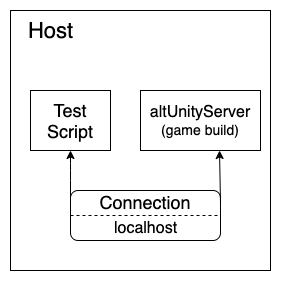
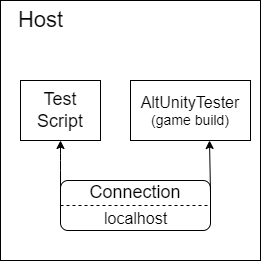
Resolve "[Overview, Advanced Usage] Update TCP socket mentions in docs"

Changed region(s): [[0.0, 0.0, 1.0, 1.0]]

diff --git a/docs/pages/advanced-usage.md b/docs/pages/advanced-usage.md
@@ -88,7 +88,7 @@ In order to run tests from the command line you can use the following example co
 
 ## Run tests on a Continuous Integration Server
 
-1. Instrument your game build with altUnity Tester from Unity or by [building from the command line](#build-games-from-the-command-line).
+1. Instrument your game build with AltUnity Tester from Unity or by [building from the command line](#build-games-from-the-command-line).
 2. Start the game build on a device.
 3. Run your tests - see commands in the ["Run tests from the command line" section](#run-tests-from-the-command-line).
 
@@ -142,7 +142,7 @@ For installing iProxy `brew install libimobiledevice`. _Requires iproxy 2.0.2_
 
                 - Forward the port using the following command:
 
-                    ``iproxy LOCAL_TCP_PORT DEVICE_TCP_PORT -u [UDID]``
+                    ``iproxy LOCAL_PORT DEVICE_PORT -u [UDID]``
 
                 - Forward using AltUnity Tester Editor
 
@@ -284,11 +284,11 @@ The following command can be used to connect to the running instrumented Unity A
 
     .. code-tab:: java
 
-            altUnityDriver = new AltUnityDriver ("deviceIp", 13000, ";", "&", true);
+            altUnityDriver = new AltUnityDriver ("deviceIp", 13000, true);
 
     .. code-tab:: py
 
-            cls.altUnityDriver = AltUnityDriver(TCP_IP='deviceIp', TCP_PORT=13000)
+            cls.altUnityDriver = AltUnityDriver(host='deviceIp', port=13000)
 ```
 
 ### Connect to multiple devices running the game
@@ -324,13 +324,13 @@ Then in your tests you will need to create two AltUnityDriver instances, one for
     This applies even when using split screen mode.
 ```
 
-You can change the port for your game build from the AltUnityTesterEditor window inside your Unity project.
+You can change the port for your game build from the AltUnity Tester Editor window inside your Unity project.
 
 ![altUnity Server Settings](../_static/images/portForwarding/altUnityServerSettings.png)
 
 ```eval_rst
 .. note::
-    After you have done the Server Port forwarding or connected to the AltUnity driver directly, you can use it in your tests to send commands to the server and receive information from the game.
+    After you have done the AltUnity Tester Port forwarding or connected to the AltUnity Driver directly, you can use it in your tests to send commands to the server and receive information from the game.
 ```
 
 ## Using AltUnity Tester in Release mode

diff --git a/docs/pages/tester-with-cloud.md b/docs/pages/tester-with-cloud.md
@@ -4,9 +4,9 @@ In some cases you might want to run your tests on dozens or even hundreds of rea
 
 Some of these cloud services allow running Appium automated tests by giving you access to an Appium server running in the cloud that has access to all their mobile devices. These services will not work with AltUnity Tester. 
 
-If your tests are running locally, on your machine, and the device is running in the cloud, your local tests cannot communicate with the TCP socket that AltUnity Tester opens on a specific port inside the device. That's because AltUnity Tester requires you to configure your port forwarding from the device to the machine running the tests.  
+If your tests are running locally, on your machine, and the device is running in the cloud, your local tests cannot communicate with the Web Socket that AltUnity Tester opens on a specific port inside the device. That's because AltUnity Tester requires you to configure your port forwarding from the device to the machine running the tests.  
 
-However, some of these cloud services give you access to a virtual machine or a Docker container that has a cloud device attached, where you upload your tests, configure your environment and run your tests. This means you can configure your port forwarding so that the tests can connect to the TCP socket opened by AltUnity Tester inside the game running on the device.
+However, some of these cloud services give you access to a virtual machine or a Docker container that has a cloud device attached, where you upload your tests, configure your environment and run your tests. This means you can configure your port forwarding so that the tests can connect to the Web Socket opened by AltUnity Tester inside the game running on the device.
 
 So far, we know that **AWS Device Farm** and **Bitbar Cloud** both offer this type of "server-side" running, so they both support running AltUnity tests. If you know of any other device cloud providers that might support this, please let us know and we will try them out. 
 

diff --git a/docs/pages/overview.md b/docs/pages/overview.md
@@ -22,16 +22,16 @@ You can run your tests on real devices (mobile, PCs, etc.) or inside the Unity E
 AltUnity Tester framework contains the following modules:
 
 * AltUnity Driver
-* AltUnity Tester Editor Window
+* AltUnity Tester Unity Package
 <!--
 * AltUnity Proxy
 -->
 
-AltUnity Tester is used to instrument your Unity App to expose access to all the objects in the Unity hierarchy. The instrumented Unity App opens up a TCP socket connection on the device running the Unity application and waits for an AltUnity Driver to connect after starting the application.
+AltUnity Tester is used to instrument your Unity App to expose access to all the objects in the Unity hierarchy. The instrumented Unity App opens up a Web socket connection on the device running the Unity application and waits for an AltUnity Driver to connect after starting the application.
 
 AltUnity Driver module is used to connect to the instrumented Unity App, access all the Unity objects and interact with them through tests written in C#, Java or Python.
 
-AltUnity Tester Editor Window is the GUI used for instrumenting a Unity game and running C# tests directly from Unity Editor.
+AltUnity Tester Unity Package contains the AltUnity Tester Editor which is the GUI used for instrumenting a Unity game and running C# tests directly from Unity Editor.
 
 <!--
 AltUnity Proxy module is used to create the bridge between the tests and the instrumented Unity App. It acts as a webscoket server that facilitates communication between AltUnity Driver (tests) and AltUnity Tester (instrumented Unity app).

diff --git a/docs/pages/altunity-tester-editor.md b/docs/pages/altunity-tester-editor.md
@@ -157,7 +157,7 @@ _Platform Settings_
 
                 .. image:: ../_static/images/platformSettings/AltUnityWindowStandalone.png
 
-                The **Build Target** filed: choose build mode according to platform.
+                The **Build Target** field: choose build mode according to platform.
 
                 The **Build Location** field: The build path for the instrumented Unity application.
 
